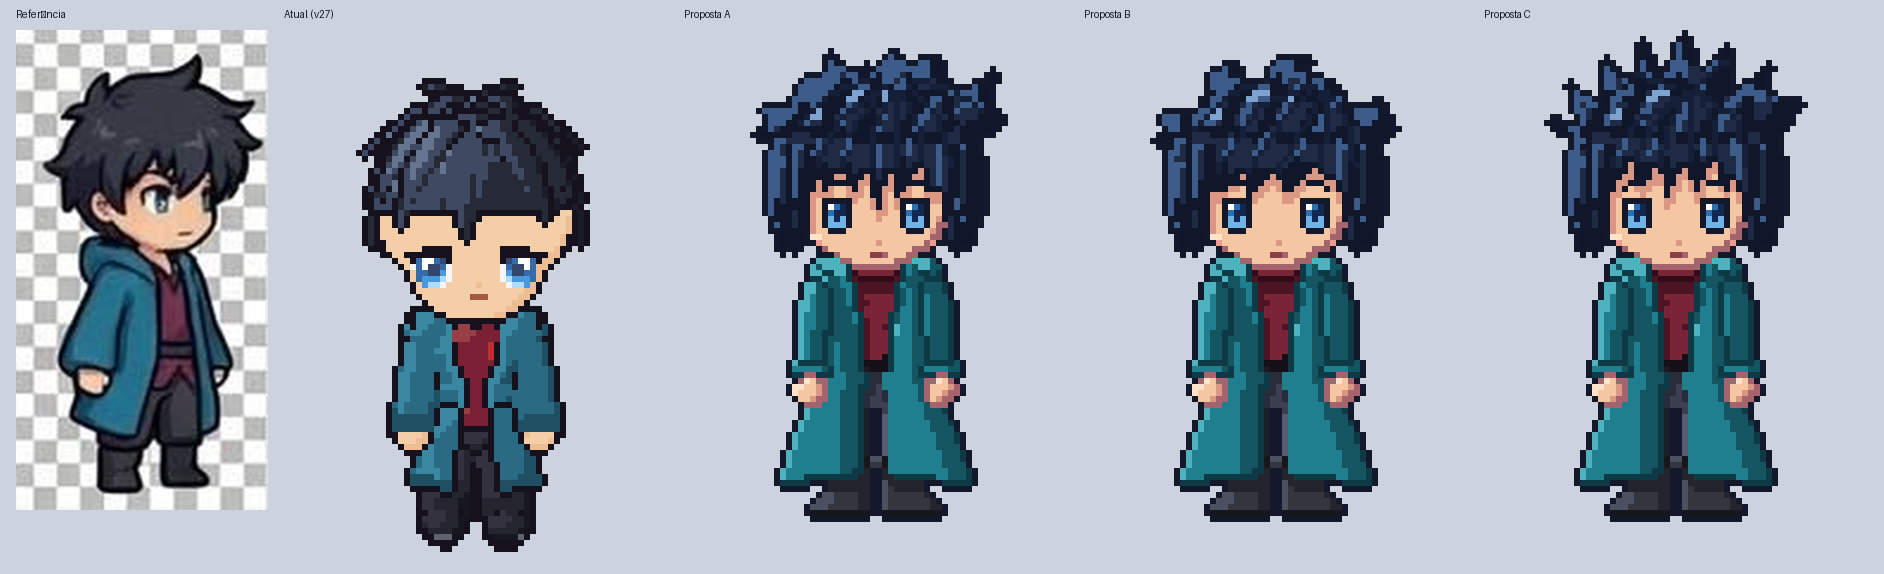
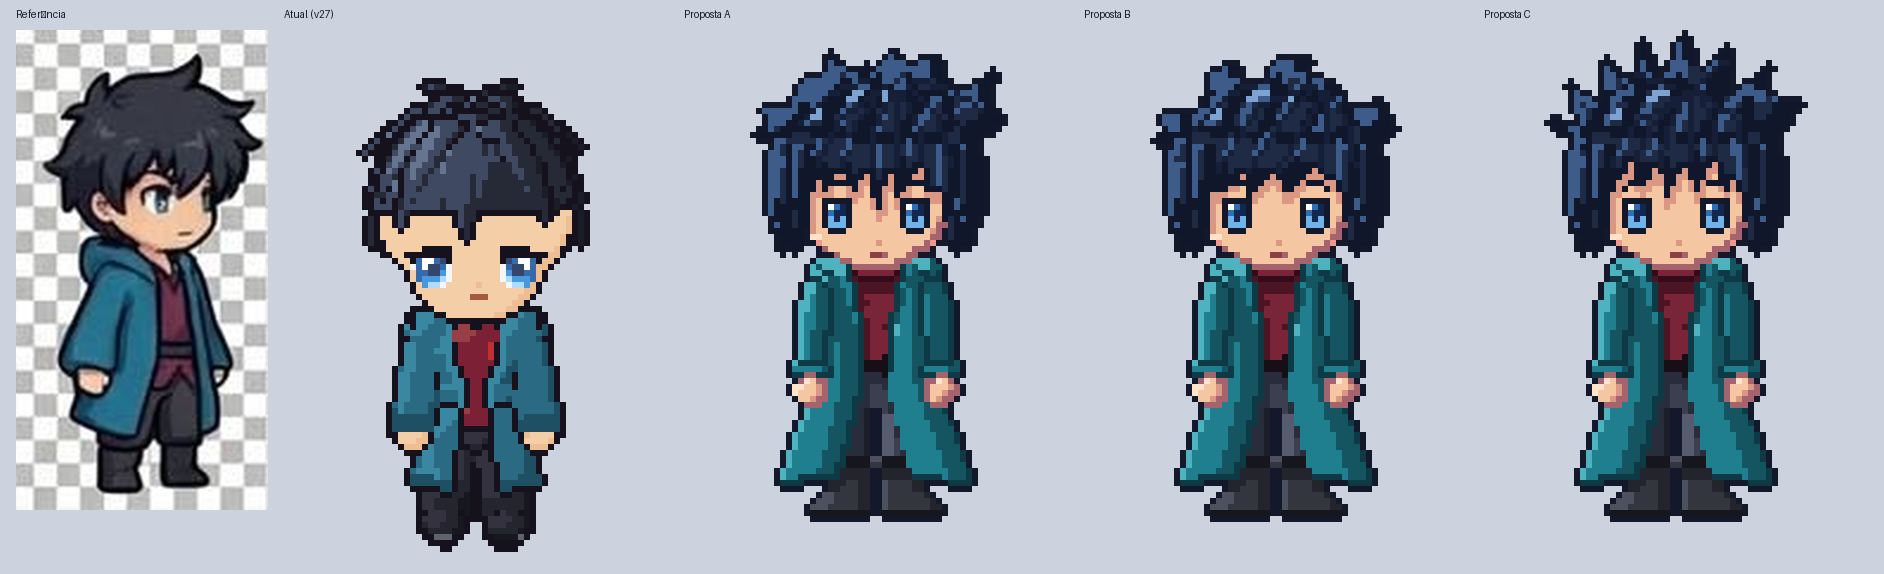
Herói pixel art: casaco aberto embaixo na frente (abas em curva)
Claude-Session: https://claude.ai/code/session_013vLqrVyPBNyjBLYS91kN9N

Changed region(s): [[0.862, 0.6516, 0.9236, 0.8293], [0.6465, 0.6516, 0.7081, 0.8293], [0.431, 0.6516, 0.4926, 0.8293]]

diff --git a/public/pixelHero.js b/public/pixelHero.js
@@ -92,7 +92,7 @@ function bodyParts() {
   // Casaco: ombros redondos e caídos, aberto na frente (V até a faixa, abre de novo embaixo), barra em duas abas.
   // Tecido fosco: luz só no alto dos ombros e das mangas, sombra larga do lado direito.
   const fora = [[32, 47.4], [26.6, 47.4], [23.4, 48.4], [21.6, 50.6], [21.6, 55], [22.4, 62], [22, 70], [32, 70]];
-  const abertura = poly([[27.6, 47], [36.4, 47], [34.4, 56], [33.6, 63], [36, 71], [28, 71], [30.4, 63], [29.6, 56]]);
+  const abertura = poly([[27.6, 47], [36.4, 47], [34.4, 56], [33.6, 63], [34.4, 71], [29.6, 71], [30.4, 63], [29.6, 56]]);
   P.push(part('casaco', 'casaco', minus(sym(fora), abertura), PAL.casaco,
     { shade: { l: [-1, -3], s: [4, 0], d: [1, 1] }, recv: true }));
   // Lapelas: dobra do tecido ao longo da abertura, com o vinco escuro do lado de dentro.
@@ -100,7 +100,7 @@ function bodyParts() {
   P.push(part('lapela_e', 'casaco', poly(lapE), PAL.casaco, { shade: { l: [0, -2], d: [1, 0] }, group: 'casaco', sep: false }));
   P.push(part('lapela_d', 'casaco', poly(mir(lapE)), PAL.casaco, { shade: { s: [1, 0], d: [-1, 0] }, group: 'casaco', sep: false }));
   // Barra: duas abas soltas e um pouco abertas em sino (cada uma vai balançar sozinha nas animações).
-  const abaE = [[22.4, 64.6], [30.6, 64.6], [30, 82.4], [23.4, 83.2], [15.6, 84.2], [18.6, 75]];
+  const abaE = [[22.4, 64.6], [30.6, 64.6], [29.6, 70], [28, 76], [26, 82.6], [21, 83.4], [15.6, 84.2], [18.6, 75]];
   P.push(part('aba_e', 'casaco', poly(abaE), PAL.casaco, { shade: { l: [-1, 0], s: [4, 0], d: [1, 1] }, group: 'casaco', sep: false }));
   P.push(part('aba_d', 'casaco', poly(mir(abaE)), PAL.casaco, { shade: { s: [4, 0], d: [1, 1] }, group: 'casaco', sep: false }));
 
